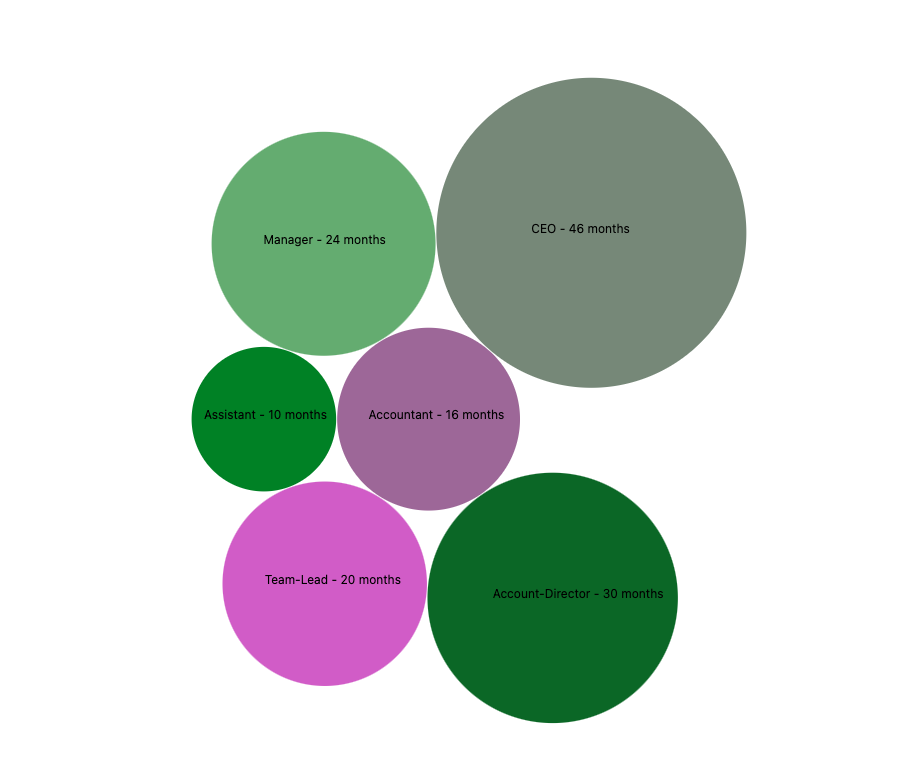
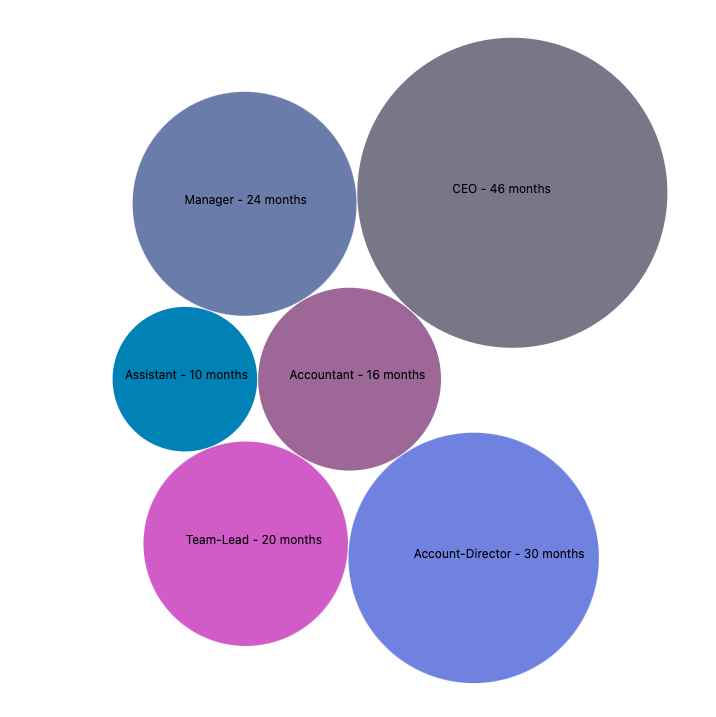
added prototype S5 sankey chart and color changes in Prototype S4

diff --git a/src/components/prototypes/s5/sankeyData.ts b/src/components/prototypes/s5/sankeyData.ts
@@ -1,0 +1,42 @@
+const sankeyData = {
+    nodes: [
+      { name: "Project Coordinator" },
+      { name: "Marketing Coordinator" },
+      { name: "Marketing Specialist" },
+      { name: "Advertising Manager" },
+      { name: "Product Marketing Manager" },
+      { name: "Public Relations Manager" },
+      { name: "Brand Manager" },
+      { name: "Director of Media" },
+      { name: "Director of Marketing Analytics" },
+      { name: "VP of Brand Development" },
+      { name: "Chief Marketing Officer" },
+    ],
+    links: [
+      { source: 0, target: 4, value: 36 },
+      { source: 0, target: 2, value: 15 },
+      { source: 0, target: 3, value: 25 },
+      { source: 1, target: 2, value: 6 },
+      { source: 1, target: 3, value: 24 },
+      { source: 1, target: 4, value: 24 },
+      { source: 1, target: 6, value: 45 },
+      { source: 2, target: 5, value: 32 },
+      { source: 2, target: 3, value: 6 },
+      { source: 2, target: 4, value: 25 },
+      { source: 2, target: 6, value: 35 },
+      { source: 3, target: 5, value: 21 },
+      { source: 3, target: 7, value: 43 },
+      { source: 4, target: 8, value: 55 },
+      { source: 4, target: 5, value: 6 },
+      { source: 4, target: 10, value: 60 },
+      { source: 5, target: 7, value: 25 },
+      { source: 5, target: 8, value: 48 },
+      { source: 5, target: 9, value: 21 },
+      { source: 6, target: 9, value: 31 },
+      { source: 6, target: 10, value: 35 },
+      { source: 6, target: 7, value: 10 },
+      { source: 6, target: 8, value: 12 },
+    ]
+  };
+
+  export default sankeyData;

diff --git a/src/components/prototypes/s5/Link.tsx b/src/components/prototypes/s5/Link.tsx
@@ -1,0 +1,50 @@
+import React, { Component } from "react";
+import { Layer } from "recharts";
+
+export default class Link extends Component<any, any> {
+  static displayName = "SankeyChart";
+
+  state = {
+    fill: "url(#linkGradient)"
+  };
+
+  render() {
+    const {
+      sourceX,
+      targetX,
+      sourceY,
+      targetY,
+      sourceControlX,
+      targetControlX,
+      linkWidth,
+      index
+    } = this.props;
+    const { fill } = this.state;
+
+    return (
+      <Layer key={`CustomLink${index}`}>
+        <path
+          d={`
+            M${sourceX},${sourceY + linkWidth / 2}
+            C${sourceControlX},${sourceY + linkWidth / 2}
+              ${targetControlX},${targetY + linkWidth / 2}
+              ${targetX},${targetY + linkWidth / 2}
+            L${targetX},${targetY - linkWidth / 2}
+            C${targetControlX},${targetY - linkWidth / 2}
+              ${sourceControlX},${sourceY - linkWidth / 2}
+              ${sourceX},${sourceY - linkWidth / 2}
+            Z
+          `}
+          fill={fill}
+          strokeWidth="0"
+          onMouseEnter={() => {
+            this.setState({ fill: "rgba(0, 238, 87, 0.5)" });
+          }}
+          onMouseLeave={() => {
+            this.setState({ fill: "url(#linkGradient)" });
+          }}
+        />
+      </Layer>
+    );
+  }
+}

diff --git a/src/components/prototypes/s5/S5.tsx b/src/components/prototypes/s5/S5.tsx
@@ -1,0 +1,44 @@
+
+import Link from "next/link";
+import QuestionaireButton from "../../questionnaire/QuestionaireButton";
+import SankeyChart from "./SankeyChart";
+
+
+
+const prototypeS5 = () => {
+  return (
+    <>
+      <main className="mx-auto max-w-full flex justify-center">
+
+        <div className="flex flex-col max-w-full ">
+
+        <div className="my-12 flex justify-center flex-col text-center">
+          <h2 className="text-5xl font-semibold">
+            Your Marketing career pathways
+          </h2>
+        </div>
+        
+         <div className=" text-center text-3xl">
+           <p>Hover over each path to see approximately how many months it would take you to achieve the path.</p>
+         </div>
+
+          <div className="my-6 flex justify-center">
+            <SankeyChart/>
+          </div>
+
+        <div className="my-8 flex justify-center">
+          <Link href={"/dashboard"}>
+            <button className="mr-4 rounded-md bg-[#1848C8] px-5 py-2 text-sm text-white hover:bg-[#AFC3FF]">
+              BACK TO DASHBOARD
+            </button>
+          </Link>
+          <QuestionaireButton />
+        </div>
+
+        </div>
+      </main>
+    </>
+  );
+};
+
+export default prototypeS5;

diff --git a/src/pages/dashboard.tsx b/src/pages/dashboard.tsx
@@ -12,6 +12,7 @@ import PrototypeS2image from '../components/prototypes/s2/img/graphS2.png'
 import PrototypeD1image from '../components/prototypes/s2/img/PrototypeD1.jpg'
 import PrototypeS3image from '../components/prototypes/s2/img/PrototypeS3.png'
 import PrototypeS4image from '../components/prototypes/s2/img/PrototypeS4.png'
+import PrototypeS5image from '../components/prototypes/s2/img/PrototypeS5.png'
 
 
 type Props = {
@@ -83,6 +84,14 @@ const dashboard = (props: Props) => {
                 <Image 
                 src={PrototypeS4image} 
                 alt="image of prototype 4S"
+                className="w-60 h-48 bg-slate-400 border rounded cursor-pointer">
+                </Image>
+            </Link>
+
+            <Link href={`s5/${userdetails?.id}`}>
+                <Image 
+                src={PrototypeS5image} 
+                alt="image of prototype 5S"
                 className="w-60 h-48 bg-slate-400 border rounded cursor-pointer">
                 </Image>
             </Link>

diff --git a/src/components/prototypes/s5/SankeyChart.tsx b/src/components/prototypes/s5/SankeyChart.tsx
@@ -1,0 +1,39 @@
+import { ResponsiveContainer, Sankey, Tooltip } from "recharts";
+import Node from "./Node";
+import Link from "./Link";
+import sankeyData from "./sankeyData";
+import CustomTooltip from "./CustomTooltip";
+
+
+
+const SankeyChart = () => {
+
+
+
+  return (
+    <>
+    <ResponsiveContainer width={"98%"} height={750} min-width={400}>
+      <Sankey
+      data={sankeyData}
+      nodeWidth={10}
+      nodePadding={50}
+      linkCurvature={0.71}
+      iterations={36}
+      link={<Link />}
+      node={<Node containerWidth={960} />}
+    >
+      <defs>
+        <linearGradient id={"linkGradient"}>
+          <stop offset="0%" stopColor="rgba(57, 222, 225, 0.5)" />
+          <stop offset="100%" stopColor="rgba(52, 77, 186, 0.3)" />
+        </linearGradient>
+      </defs>
+      {/* <Tooltip content={<CustomTooltip payload={sankeyData} />} /> */}
+      <Tooltip />
+    </Sankey>
+    </ResponsiveContainer>
+    </>
+  )
+}
+
+export default SankeyChart

diff --git a/src/components/prototypes/s5/Node.tsx b/src/components/prototypes/s5/Node.tsx
@@ -1,0 +1,44 @@
+import { Rectangle, Layer } from "recharts";
+
+export default function Node({
+  x,
+  y,
+  width,
+  height,
+  index,
+  payload,
+  containerWidth
+}: any) {
+  const isOut = x + width + 6 > containerWidth;
+  return (
+    <Layer key={`CustomNode${index}`}>
+      <Rectangle
+        x={x}
+        y={y}
+        width={width}
+        height={height}
+        fill="#449dae"
+        fillOpacity="1"
+      />
+      <text
+        textAnchor={isOut ? "end" : "start"}
+        x={isOut ? x - 6 : x + width + 6}
+        y={y + height / 2}
+        fontSize="14"
+        stroke="#333"
+      >
+        {payload.name}
+      </text>
+      {/* <text
+        textAnchor={isOut ? "end" : "start"}
+        x={isOut ? x - 6 : x + width + 6}
+        y={y + height / 2 + 13}
+        fontSize="12"
+        stroke="#333"
+        strokeOpacity="0.5"
+      >
+        {payload.value + ""}
+      </text> */}
+    </Layer>
+  );
+}

diff --git a/src/components/prototypes/s5/CustomTooltip.tsx b/src/components/prototypes/s5/CustomTooltip.tsx
@@ -1,0 +1,20 @@
+const CustomTooltip = ({ active, payload }: any) => {
+    if (active && payload && payload.length) {
+      return (
+        <div className="bg-white rounded-lg w-44 h-22 p-5">
+          <div className='text-slate-500 text-left'>
+          <p className='text-medium text-slate-500'>text {payload[0].payload.nodes}</p>
+          {payload[0].payload.links ? (
+            <p> {payload[0].payload.links}</p>
+          ) : (
+            <p> {payload[0].payload.links} months</p>
+          )}
+          </div>
+        </div>
+      );
+    }
+  
+    return null;
+  };
+  
+  export default CustomTooltip;

diff --git a/src/pages/[prototypeId]/[userId].tsx b/src/pages/[prototypeId]/[userId].tsx
@@ -9,6 +9,7 @@ import S1 from '../../components/prototypes/s1/prototypeS1'
 import S2 from '../../components/prototypes/s2/S2'
 import S3 from '../../components/prototypes/s3/S3'
 import S4 from '../../components/prototypes/s4/S4'
+import S5 from '../../components/prototypes/s5/S5'
 
 type Props = {}
 
@@ -33,6 +34,8 @@ const Prototype = (props: Props) => {
                 return <S3 />
             case 's4':
                 return <S4 />
+            case 's5':
+                return <S5 />
             default:
                 return <Loading />
         }

diff --git a/src/components/prototypes/s2/S2.tsx b/src/components/prototypes/s2/S2.tsx
@@ -18,7 +18,7 @@ const prototypeS2 = () => {
 </div>
 
 <div className="flex justify-center text-center">
-<p>The graph below shows you the 3 different pathways to reach your goal over the next 6 months and the amout of hours you can expect to spend on the path per month </p>
+<p>The graph below shows you the 3 different pathways to reach your goal over the next 7 months and the amout of hours you can expect to spend on the path per month </p>
 </div>
 
 <div className="flex justify-center my-8 gap-10">

diff --git a/src/components/prototypes/s4/Circles.tsx b/src/components/prototypes/s4/Circles.tsx
@@ -79,7 +79,7 @@ const color = d3
     "Accountant",
     "Team-Lead"
   ] as CategoryKeys[])
-  .range(["#6cac6c", "#1a811a", "#206720", "#787", "#969", "#ca5bca"])
+  .range(["#6c7cac", "#2282b9", "#7381e4", "#787788", "#969", "#ca5bca"])
   .unknown("#F00");
 
   

diff --git a/src/pages/feedback.tsx b/src/pages/feedback.tsx
@@ -37,6 +37,11 @@ const prototypes = [
     label: 'Prototype 5',
     src: '/PrototypeS4.png',
   },
+  {
+    value: '6',
+    label: 'Prototype 6',
+    src: '/PrototypeS5.png',
+  },
 ];
 
 const feedback = () => {

diff --git a/src/components/prototypes/s2/graph2Data.ts b/src/components/prototypes/s2/graph2Data.ts
@@ -38,8 +38,13 @@ const graph2Data = [
     {
       name: "July",
       one: 34,
-      two: 34,
-      three: 34,
+      two: 30,
+      
+    }
+    ,
+    {
+      name: "Aug",
+      one: 10,
     }
   ];
 
